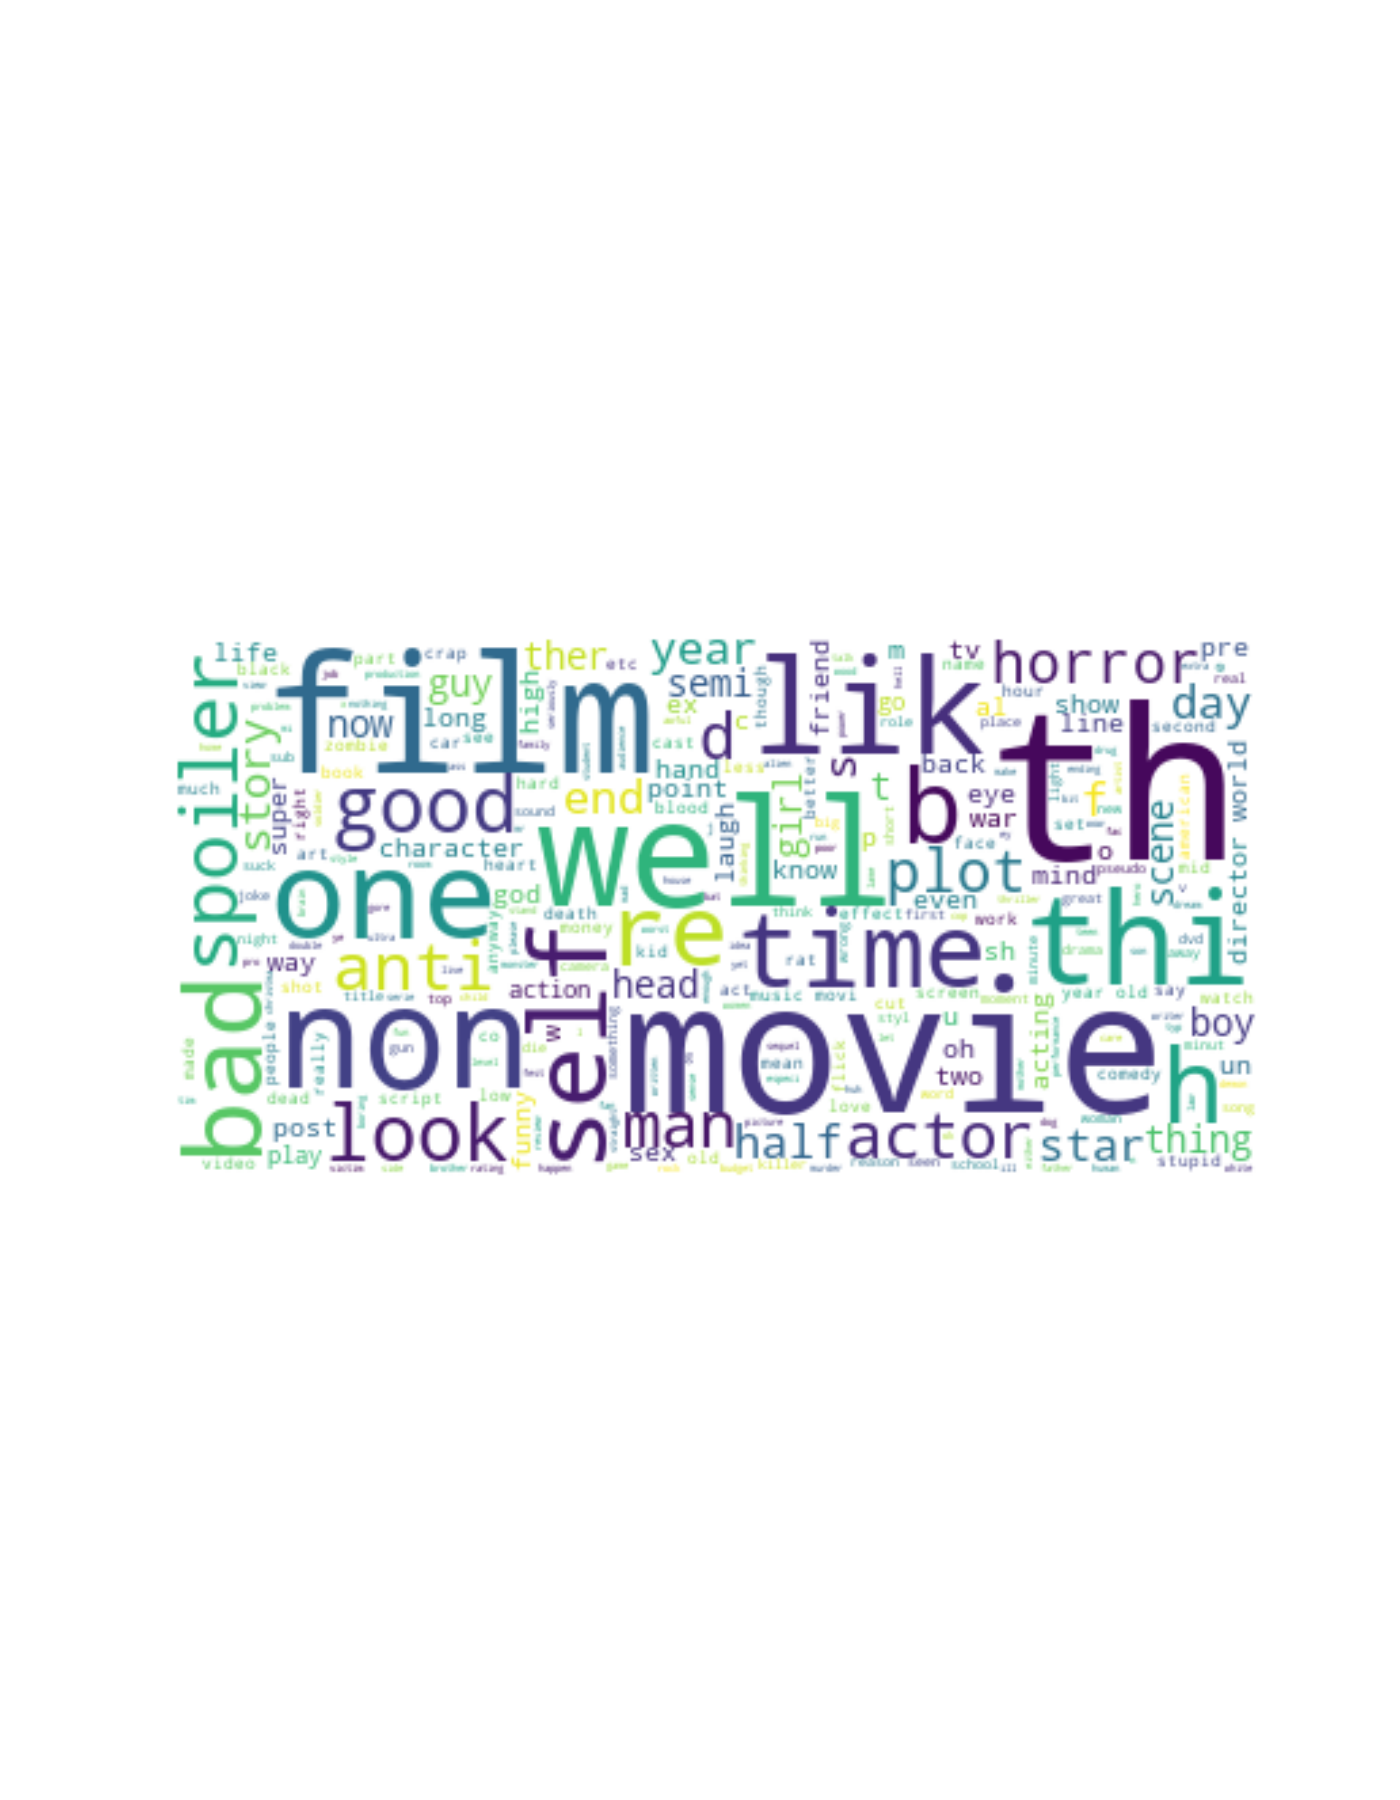
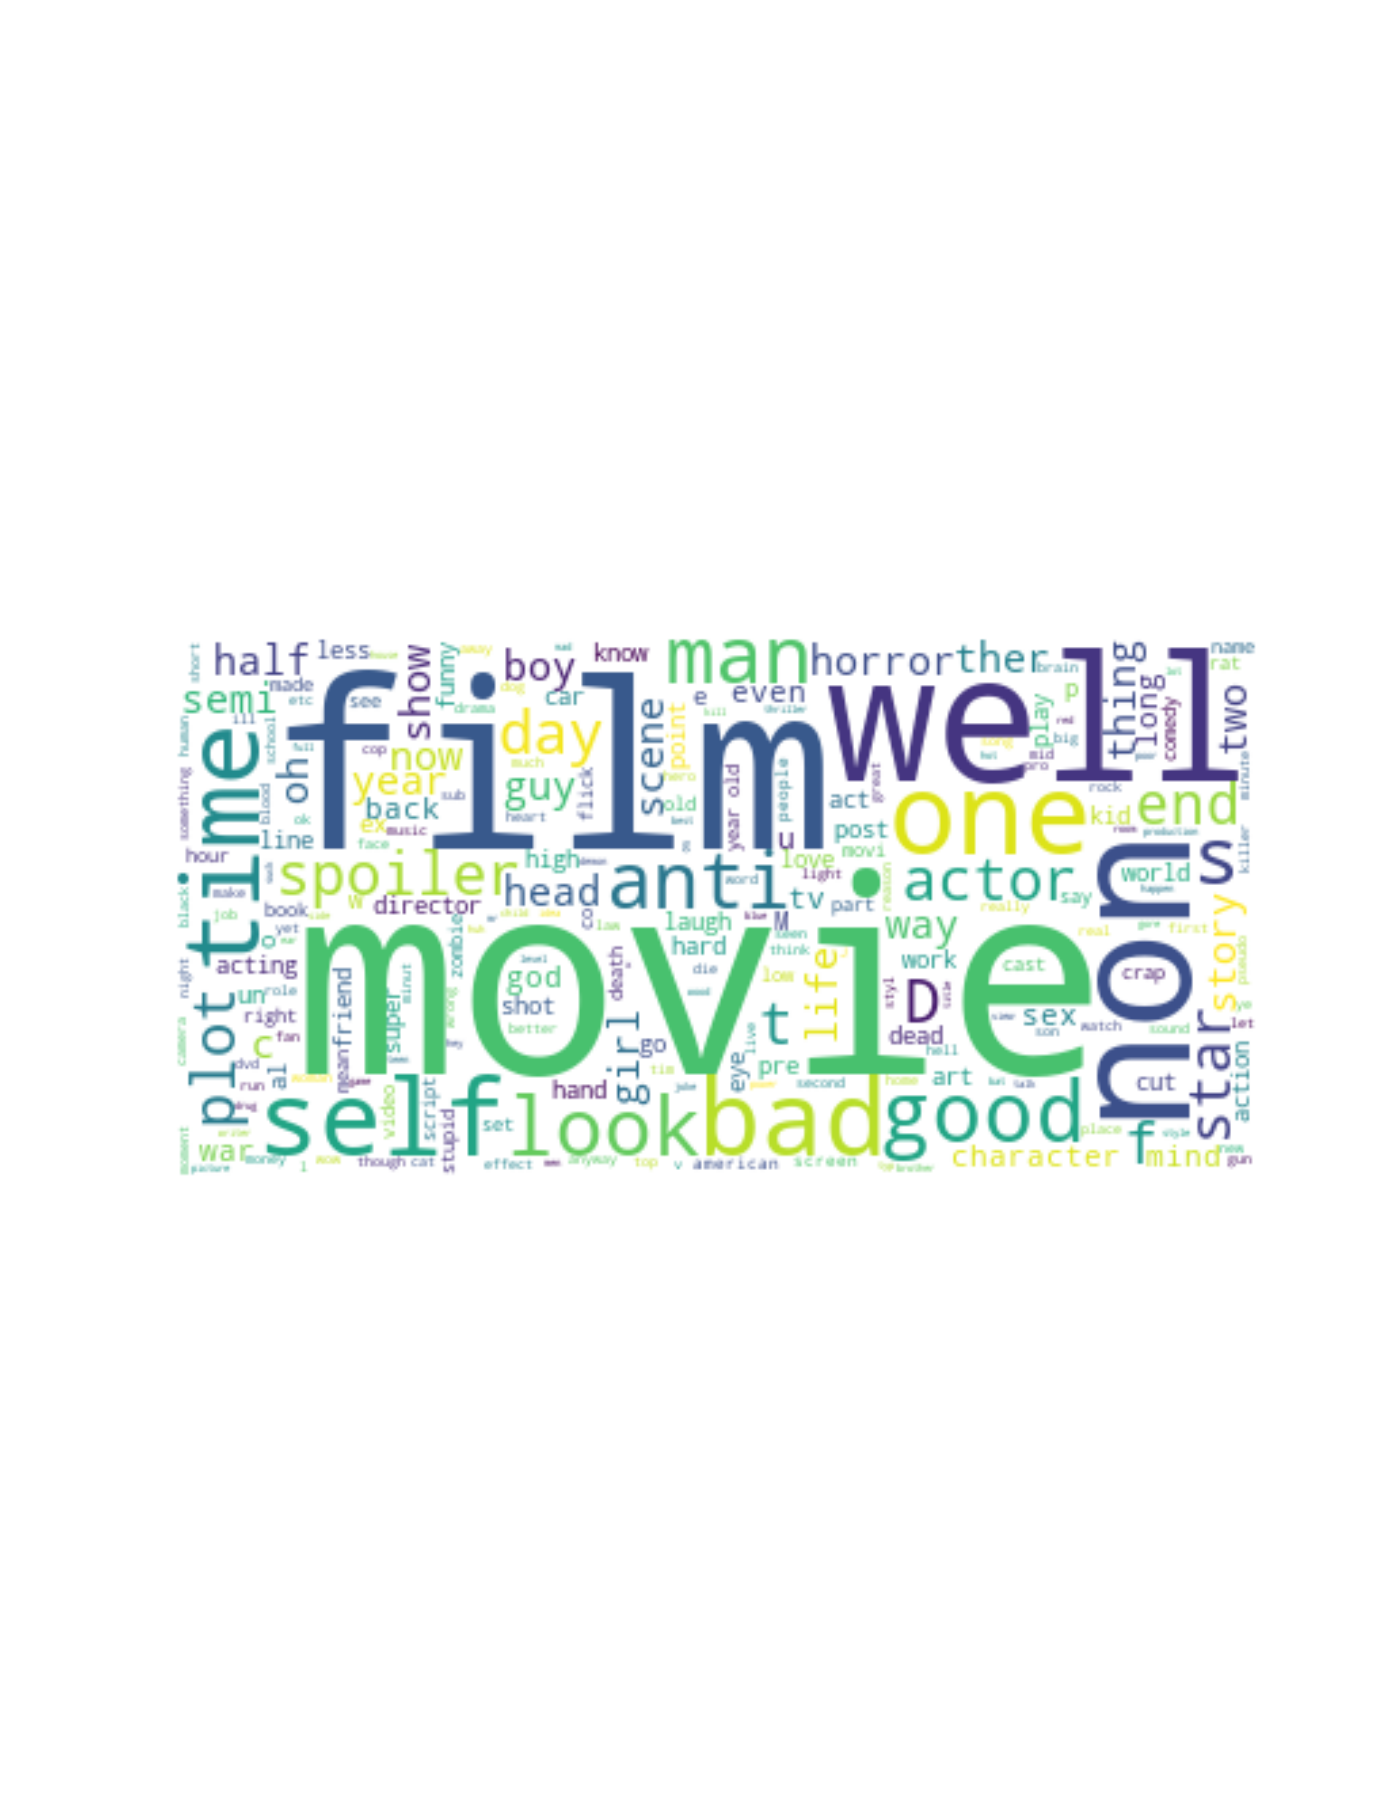
qe done

Changed region(s): [[0.1229, 0.3422, 0.8907, 0.6533]]

diff --git a/ass2/Q1/Qe/qe.py b/ass2/Q1/Qe/qe.py
@@ -1,0 +1,220 @@
+from math import log
+import sys
+import numpy as np
+import pandas as pd
+from PIL import Image
+import matplotlib.pyplot as plt
+from wordcloud import WordCloud,STOPWORDS
+from nltk.stem import SnowballStemmer
+
+from os import walk
+
+#positive data
+
+train_path = str(sys.argv[1])
+test_path = str(sys.argv[2])
+
+my_files_pos = []
+my_files_neg = []
+test_pos = []
+test_neg = []
+
+cnt_pos = 0
+cnt_neg = 0
+
+cnt_pos_lis = {}
+cnt_neg_lis = {}
+cnt_lis = {}
+cnt2_pos_lis = {}
+cnt2_neg_lis = {}
+cnt2_lis = {}
+
+cnt_wrds_pos = 0
+cnt_wrds_neg = 0
+cnt_wrds = 0
+cnt2_wrds_pos = 0
+cnt2_wrds_neg = 0
+cnt2_wrds = 0
+
+for (dirpath, dirnames, filenames) in walk(train_path + '/pos'):
+    for filename in filenames:
+        cnt_pos +=1
+        my_files_pos.append(train_path + '/pos/'  + filename)
+    break
+
+for (dirpath, dirnames, filenames) in walk(test_path + '/pos'):
+    for filename in filenames:
+        test_pos.append(test_path + '/pos/'  + filename)
+    break
+
+for (dirpath, dirnames, filenames) in walk(train_path + '/neg'):
+    for filename in filenames:
+        cnt_neg+=1
+        my_files_neg.append(train_path + '/neg/' + filename)
+    break
+
+for (dirpath, dirnames, filenames) in walk(test_path + '/neg'):
+    for filename in filenames:
+        test_neg.append(test_path + '/neg/' + filename)
+    break
+
+pos_prob = cnt_pos/(cnt_pos+cnt_neg)
+neg_prob = cnt_neg/(cnt_pos+cnt_neg)
+
+snowball = SnowballStemmer(language='english')
+stopwords = STOPWORDS
+stopwords.add('br')
+stopwords.add('th')
+stopwords.add('h')
+stopwords.add('b')
+stopwords.add('thi')
+stopwords.add('re')
+stopwords.add('sh')
+stopwords.add('lik')
+
+for file in my_files_pos:
+    txt = open(file,'r').read()
+    words = txt.split()
+    new_words = []
+    for w in words:
+        if len(w) > 5:
+            w = snowball.stem(w)
+        if w in stopwords:
+            continue
+        new_words.append(w)
+        if cnt_pos_lis.get(w) == None:
+            cnt_pos_lis[w]=1
+        else:
+            cnt_pos_lis[w] = cnt_pos_lis[w]+1
+        
+        cnt_wrds_pos += 1
+        cnt_wrds += 1
+        
+        if cnt_lis.get(w) == None:
+            cnt_lis[w]=1
+        else:
+            cnt_lis[w] = cnt_lis[w]+1
+    
+    for i in range(len(new_words)-1):
+        w0 = new_words[i]
+        w1 = new_words[i+1]
+        if cnt2_pos_lis.get((w0,w1))== None:
+            cnt2_pos_lis[(w0,w1)]=1
+        else:
+            cnt2_pos_lis[(w0,w1)] = cnt2_pos_lis[(w0,w1)]+1
+        
+        cnt2_wrds_pos += 1
+        cnt2_wrds += 1
+
+        if cnt2_lis.get((w0,w1)) == None:
+            cnt2_lis[(w0,w1)]=1
+        else:
+            cnt2_lis[(w0,w1)] = cnt2_lis[(w0,w1)]+1
+
+for file in my_files_neg:
+    txt = open(file,'r').read()
+    words = txt.split()
+    new_words = []
+    for w in words:
+        if len(w) > 5:
+            w = snowball.stem(w)
+        if w in stopwords:
+            continue
+        new_words.append(w)
+        if cnt_neg_lis.get(w) == None:
+            cnt_neg_lis[w]=1
+        else:
+            cnt_neg_lis[w] = cnt_neg_lis[w]+1
+        
+        cnt_wrds_neg += 1
+        cnt_wrds += 1
+        
+        if cnt_lis.get(w) == None:
+            cnt_lis[w]=1
+        else:
+            cnt_lis[w] = cnt_lis[w]+1
+
+    for i in range(len(new_words)-1):
+        w0 = new_words[i]
+        w1 = new_words[i+1]
+        if cnt2_neg_lis.get((w0,w1))== None:
+            cnt2_neg_lis[(w0,w1)]=1
+        else:
+            cnt2_neg_lis[(w0,w1)] = cnt2_neg_lis[(w0,w1)]+1
+        
+        cnt2_wrds_neg += 1
+        cnt2_wrds += 1
+
+        if cnt2_lis.get((w0,w1)) == None:
+            cnt2_lis[(w0,w1)]=1
+        else:
+            cnt2_lis[(w0,w1)] = cnt2_lis[(w0,w1)]+1
+
+#accuracy for train data
+
+accu = 0
+
+def calc_accu(files,type):
+    global cnt_pos_lis,cnt_wrds_neg,cnt_wrds_pos,cnt_pos_lis,cnt_wrds,cnt_lis,cnt_neg_lis,cnt2_wrds_pos,cnt2_wrds_neg,cnt2_pos_lis,cnt2_neg_lis,cnt2_lis,cnt2_wrds,pos_prob,neg_prob
+
+    accu = 0
+    for file in files:
+
+        test_file = open(file,'r').read()
+        words = test_file.split()
+
+        log_p_pos = 0
+        log_p_neg = 0
+
+        new_words = []
+        for w in words:
+            if len(w) > 5:
+                w = snowball.stem(w)
+            if w in stopwords:
+                continue
+            new_words.append(w)
+            if cnt_pos_lis.get(w) == None:
+                log_p_pos += log((1)/(cnt_wrds_pos + len(cnt_lis)))
+            else:
+                log_p_pos += log((1+cnt_pos_lis[w])/(cnt_wrds_pos + len(cnt_lis)))
+            
+            if cnt_neg_lis.get(w) == None:
+                log_p_neg += log((1)/(cnt_wrds_neg + len(cnt_lis)))
+            else:
+                log_p_neg += log((1+cnt_neg_lis[w])/(cnt_wrds_neg + len(cnt_lis)))
+
+        for i in range(len(new_words)-1):
+            w0 = new_words[i]
+            w1 = new_words[i+1]
+
+            if cnt2_pos_lis.get((w0,w1))== None:
+                log_p_pos += log((1)/(cnt2_wrds_pos + len(cnt2_lis)))
+            else:
+                log_p_pos += log((1+cnt2_pos_lis[(w0,w1)])/(cnt2_wrds_pos + len(cnt2_lis)))
+            
+            if cnt2_neg_lis.get((w0,w1)) == None:
+                log_p_neg += log((1)/(cnt2_wrds_neg + len(cnt2_lis)))
+            else:
+                log_p_neg += log((1+cnt2_neg_lis[(w0,w1)])/(cnt2_wrds_neg + len(cnt2_lis)))
+
+        log_p_pos += log(pos_prob)
+        log_p_neg += log(neg_prob)
+
+        if (log_p_pos>log_p_neg and type == 'pos') or (log_p_neg>log_p_pos and type == 'neg'):
+            accu += 1
+    return accu
+
+accu += calc_accu(my_files_pos,'pos') + calc_accu(my_files_neg,'neg')
+
+accu = accu / (len(my_files_pos)+len(my_files_neg))
+print("Accuracy of train data : "+ str(accu))
+
+#accuracy of test data
+
+accu = 0
+
+accu += calc_accu(test_pos,'pos') + calc_accu(test_neg,'neg')
+
+accu = accu / (len(test_pos)+len(test_neg))
+print("Accuracy of test data : "+ str(accu))
+

diff --git a/ass2/Q1/Qd/qd.py b/ass2/Q1/Qd/qd.py
@@ -58,12 +58,20 @@ neg_prob = cnt_neg/(cnt_pos+cnt_neg)
 snowball = SnowballStemmer(language='english')
 stopwords = STOPWORDS
 stopwords.add('br')
+stopwords.add('th')
+stopwords.add('h')
+stopwords.add('b')
+stopwords.add('thi')
+stopwords.add('re')
+stopwords.add('sh')
+stopwords.add('lik')
 
 for file in my_files_pos:
     txt = open(file,'r').read()
     words = txt.split()
     for w in words:
-        w = snowball.stem(w)
+        if len(w) > 5:
+            w = snowball.stem(w)
         if w in stopwords:
             continue
         if cnt_pos_lis.get(w) == None:
@@ -84,7 +92,8 @@ for file in my_files_neg:
     words = txt.split()
     
     for w in words:
-        w = snowball.stem(w)
+        if len(w) > 5:
+            w = snowball.stem(w)
         if w in stopwords:
             continue
 
@@ -152,6 +161,8 @@ fig.savefig('neg_wc.png')
 accu = 0
 
 def calc_accu(files,type):
+    global cnt_pos_lis,cnt_wrds_neg,cnt_wrds_pos,cnt_pos_lis,cnt_wrds,cnt_lis,cnt_neg_lis,pos_prob,neg_prob
+
     accu = 0
     for file in files:
 
@@ -162,7 +173,8 @@ def calc_accu(files,type):
         log_p_neg = 0
 
         for w in words:
-            w=snowball.stem(w)
+            if len(w) > 5:
+                w = snowball.stem(w)
             if w in stopwords:
                 continue
 

diff --git a/ass2/Q1/Qa/qa.py b/ass2/Q1/Qa/qa.py
@@ -143,6 +143,7 @@ fig.savefig('neg_wc.png')
 accu = 0
 
 def calc_accu(files,type):
+    global cnt_pos_lis,cnt_wrds_neg,cnt_wrds_pos,cnt_pos_lis,cnt_wrds,cnt_lis,cnt_neg_lis,pos_prob,neg_prob
     accu = 0
     for file in files:
 

diff --git a/ass2/Q1/Qc/qc.py b/ass2/Q1/Qc/qc.py
@@ -103,6 +103,7 @@ for item0 in cnt_neg_lis:
 accu = 0
 
 def calc_accu(files,type):
+    global cnt_pos_lis,cnt_wrds_neg,cnt_wrds_pos,cnt_pos_lis,cnt_wrds,cnt_lis,cnt_neg_lis,pos_prob,neg_prob
     accu = 0
     for file in files:
 
